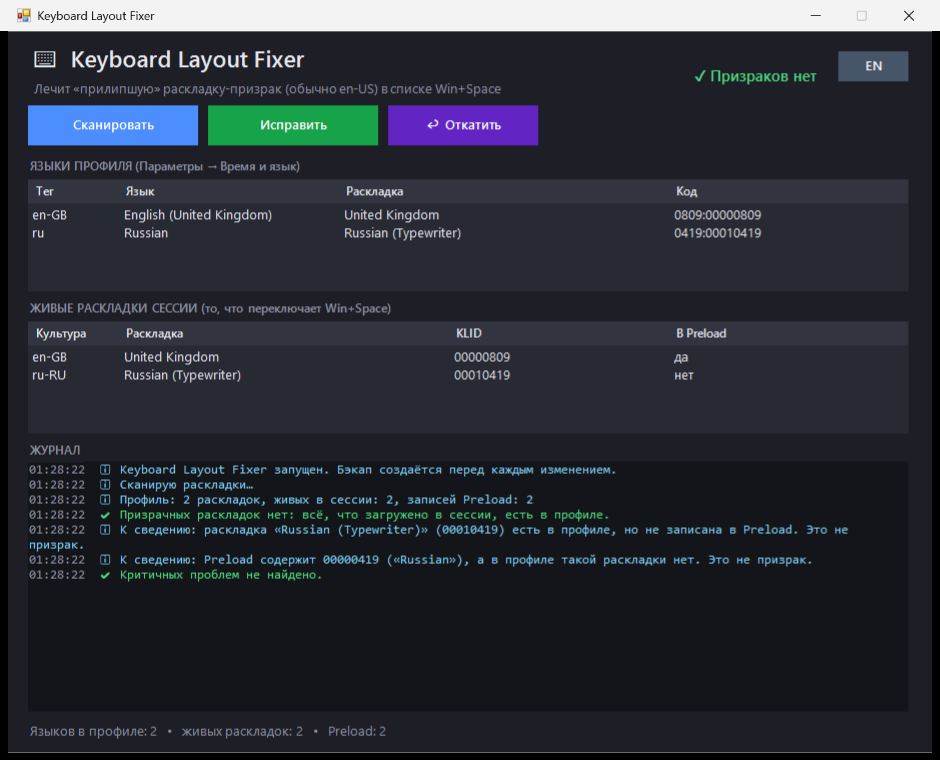
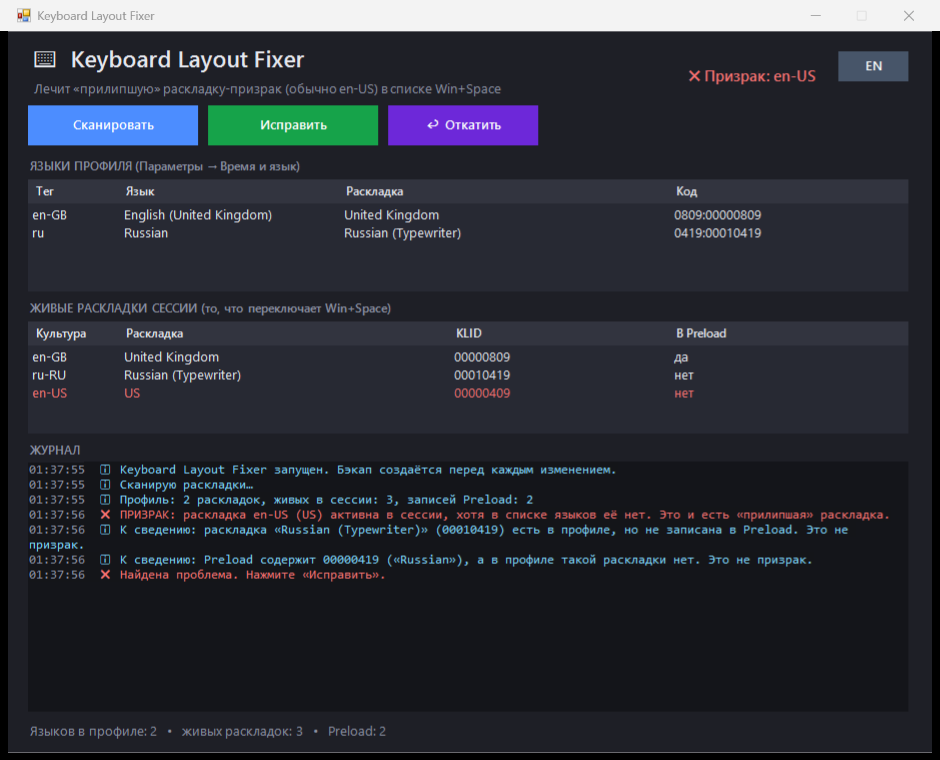
Add the phantom-detected screenshot to the README, repaint lists before capture

diff --git a/README.md b/README.md
@@ -34,6 +34,12 @@ $l.Remove(($l | Where-Object LanguageTag -like 'en-US')) # ...then remove it
 Set-WinUserLanguageList $l -Force
 ```
 
+**Before** — the scan finds en-US loaded in the session but missing from the profile:
+
+![Scan with a phantom en-US layout](docs/app-before-en.png)
+
+**After** — a clean session:
+
 ![After the fix](docs/app-after-en.png)
 
 ## Usage
